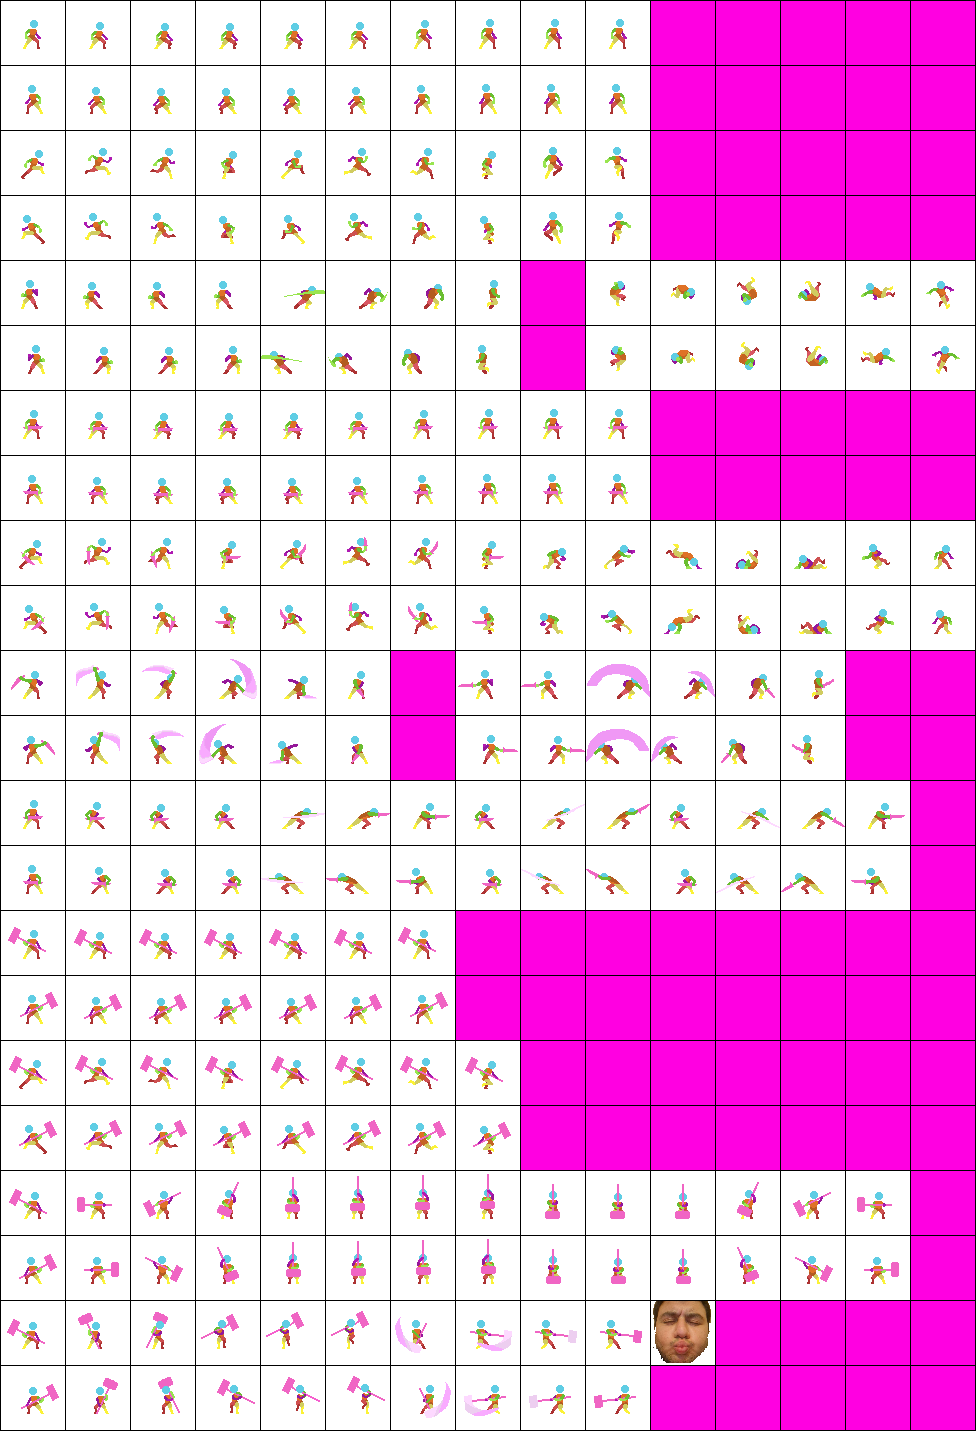
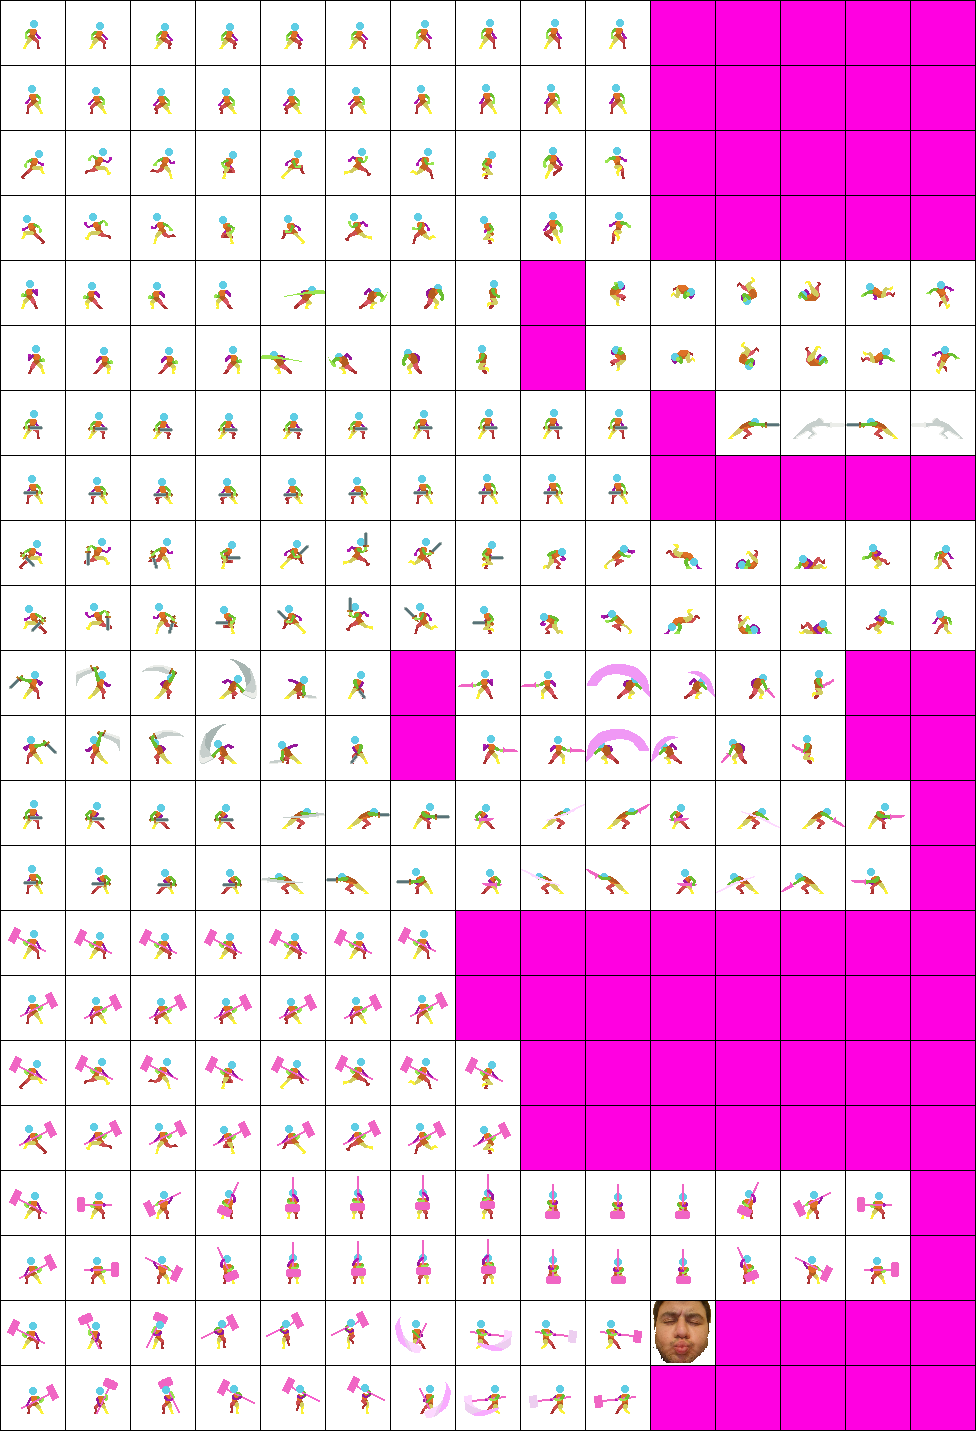
Added a new skill for the sword, new textures and a new trail effect

diff --git a/GameProject2023/src/player_weapons/SwordWeapon.java b/GameProject2023/src/player_weapons/SwordWeapon.java
@@ -1,6 +1,7 @@
 package player_weapons;
 
 import java.awt.Rectangle;
+import java.awt.image.BufferedImage;
 import java.util.ArrayList;
 
 import abstract_templates.Creature;
@@ -11,6 +12,7 @@ import framework.TextureLoader;
 import framework.TextureLoader.TextureName;
 import items.SwordItem;
 import items.WeaponItem;
+import visual_effects.FadingTrailEffect;
 import window.Animation;
 import window.KeyInput;
 import window.MouseInput;
@@ -21,13 +23,18 @@ public class SwordWeapon extends Weapon {
 		None,
 		AttackChain1,
 		AttackChain2,
-		Ability1,
+		SwordDash,
 		Ability2,
 	}
 	private SwordState state = SwordState.None;
 	private Animation currentAnimation;
 
 	private WeaponAbility[] abilities;
+	
+	private boolean dashing = false;
+	private float dashSpeedX = 10f;
+	private long dashStartTimer;
+	private int dashLengthMillis = 150;
 
 	public SwordWeapon(ObjectHandler objectHandler, KeyInput keyInput, MouseInput mouseInput) {
 		super(objectHandler, keyInput, mouseInput);
@@ -46,9 +53,9 @@ public class SwordWeapon extends Weapon {
 			
 			if (mouseInput.isAttackButtonPressed() && !abilities[0].isOnCooldown())
 				state = SwordState.AttackChain1;
-			else if (keyInput.isFirstAbilityKeyPressed() && !abilities[0].isOnCooldown())
-				state = SwordState.Ability1;
-			else if (keyInput.isSecondAbilityKeyPressed() && !abilities[0].isOnCooldown())
+			else if (keyInput.isFirstAbilityKeyPressed() && !abilities[2].isOnCooldown())
+				state = SwordState.SwordDash;
+			else if (keyInput.isSecondAbilityKeyPressed() && !abilities[3].isOnCooldown())
 				state = SwordState.Ability2;
 			break;
 		case AttackChain1:
@@ -81,12 +88,34 @@ public class SwordWeapon extends Weapon {
 				checkEnemyCollision(getChainAttackBounds(), abilities[1].getDamage(), 4 * player.getDirection(), -2f, 400);
 			player.setVelX(0);
 			break;
-		case Ability1:
+		case SwordDash:
 			currentAnimation = abilities[2].getAnimations()[getIndexFromDirection()];
-			if (currentAnimation.isPlayedOnce()) {
+			// Dash started
+			if (!dashing) {
+				dashing = true;
+				dashStartTimer = System.currentTimeMillis();
+				player.setLockMovementInputs(true);
+				player.setVelX(dashSpeedX * player.getDirection());
+				abilities[2].startCooldown();
+			}
+			// Dash ended or player got knocked back
+			if (player.isKnockedBack() || System.currentTimeMillis() - dashStartTimer > dashLengthMillis) {
 				state = SwordState.None;
+				dashing = false;
+				player.setLockMovementInputs(false);
 				break;
 			}
+			
+			player.setVelY(0f);
+			checkEnemyCollision(getSwordDashBounds(), abilities[2].getDamage(), 0f, 0f, 700);
+			
+			// Add the dash trail effect
+			int dashTrailImageIndex = player.getDirection() == 1 ? 1 : 3;
+			int playerWidth = player.getWidth();
+			int playerHeight = player.getHeight();
+			BufferedImage dashTrailImage = TextureLoader.getInstance().getTextures(TextureName.PlayerSwordDash)[dashTrailImageIndex]; 
+			objectHandler.addObject(new FadingTrailEffect(player.getX() - playerWidth / 2, player.getY() - playerHeight / 2,
+					playerWidth * 2, playerHeight * 2, dashTrailImage, 0.05f, objectHandler), ObjectHandler.TOP_LAYER);
 			break;
 		case Ability2:
 			currentAnimation = abilities[3].getAnimations()[getIndexFromDirection()];
@@ -126,6 +155,13 @@ public class SwordWeapon extends Weapon {
 		else
 			attackX = (int) x - attackWidth / 2;
 		return new Rectangle(attackX, (int) y, attackWidth, height);
+	}
+	
+	private Rectangle getSwordDashBounds() {
+		int playerWidth = player.getWidth();
+		int playerHeight = player.getHeight();
+		return new Rectangle((int) (player.getX() - playerWidth / 2), (int) (player.getY() - playerHeight / 2),
+				playerWidth * 2, playerHeight * 2);
 	}
 	
 	@Override
@@ -178,12 +214,14 @@ public class SwordWeapon extends Weapon {
 		};
 		abilities[1] = new WeaponAbility(1000, 20, stabAnims);
 		
-		// TODO Ability 1
-		Animation[] tempAnims = new Animation[] {
-				new Animation(tex.getTexturesByDirection(TextureName.PlayerHammerVerticalSlam, 1), stabDelay, true),
-				new Animation(tex.getTexturesByDirection(TextureName.PlayerHammerVerticalSlam, -1), stabDelay, true),
+		// Sword Dash
+		BufferedImage[] dashSprites = tex.getTextures(TextureName.PlayerSwordDash);
+		Animation[] dashAnims = new Animation[] {
+				new Animation(5, false, dashSprites[0]),
+				new Animation(5, false, dashSprites[2]),
 		};
-		abilities[2] = new WeaponAbility(2000, 15, tempAnims);
+		abilities[2] = new WeaponAbility(2000, 15, dashAnims);
+		
 		// TODO Ability 2
 		Animation[] tempAnims2 = new Animation[] {
 				new Animation(tex.getTexturesByDirection(TextureName.PlayerHammerSwing, 1), stabDelay, true),

diff --git a/GameProject2023/src/game_objects/ArrowProjectile.java b/GameProject2023/src/game_objects/ArrowProjectile.java
@@ -3,6 +3,7 @@ package game_objects;
 import static framework.GameConstants.ScaleConstants.PLAYER_HEIGHT;
 import static framework.GameConstants.ScaleConstants.PLAYER_WIDTH;
 
+import java.awt.AlphaComposite;
 import java.awt.Graphics;
 import java.awt.Graphics2D;
 import java.util.ArrayList;
@@ -19,6 +20,8 @@ import window.Animation;
 public class ArrowProjectile extends Projectile {
 
 	private boolean stopUpdating = false;
+	private float alpha = 1;
+	private float fadingRate = 0.01f;
 	
 	private Animation arrowAnimation;
 	
@@ -40,7 +43,10 @@ public class ArrowProjectile extends Projectile {
 		// of time and then remove it from the game.
 		if (landed) {
 			if (System.currentTimeMillis() - landingTime >= lifetimeAfterLandingMillis) {
-				objectHandler.removeObject(this);
+				if (alpha > fadingRate) 
+					alpha -= fadingRate;
+				else
+					objectHandler.removeObject(this);
 				return;
 			}
 		}
@@ -61,8 +67,8 @@ public class ArrowProjectile extends Projectile {
 		// Player collision
 		Player player = objectHandler.getPlayer();
 		if (getBounds().intersects(player.getBounds()) && !player.isDodging()) {
-			player.takeDamage(damage, player.getDefaultInvulnerabilityDuration());
 			player.applyKnockback(velX / 2, -3f);
+			player.takeDamage(damage, player.getDefaultInvulnerabilityDuration());
 			objectHandler.removeObject(this);
 		}
 		
@@ -89,11 +95,18 @@ public class ArrowProjectile extends Projectile {
 	    float centerX = (float) getBounds().getCenterX();
 	    float centerY = (float) getBounds().getCenterY();
 	    double rotationAngle = Math.atan2(velY, velX);
-
+	    
 	    Graphics2D g2d = (Graphics2D) g;
 	    g2d.rotate(rotationAngle, centerX, centerY);
+	    g2d.setComposite(makeTransparent(alpha));
 	    arrowAnimation.drawAnimation(g2d, (int) x - width / 2, (int) y - height / 2, width * 2, height * 2);
+	    g2d.setComposite(makeTransparent(1));
 	    g2d.rotate(-rotationAngle, centerX, centerY);
+	}
+	
+	private AlphaComposite makeTransparent(float alpha) {
+		int type = AlphaComposite.SRC_OVER;
+		return(AlphaComposite.getInstance(type, alpha));
 	}
 
 }

diff --git a/GameProject2023/src/game_objects/Player.java b/GameProject2023/src/game_objects/Player.java
@@ -41,6 +41,8 @@ public class Player extends Creature {
 	private int availableJumps = 2;
 	private boolean doubleJumping = false;
 	private boolean dodging = false;
+	
+	private boolean lockMovementInputs = false; 
 
 	private final int defaultInvulnerabilityDuration = 700;
 	
@@ -85,7 +87,8 @@ public class Player extends Creature {
 		if (!canInteract && (now - lastInteractTimer >= 1000))
 			canInteract = true;
 
-		handleMovement();
+		if (!lockMovementInputs)
+			handleMovement();
 		weapon.tick();
 		handleObjectInteraction();
 
@@ -172,8 +175,6 @@ public class Player extends Creature {
 
 		// Jump / Double jump
 		// Allows the player to do multiple jumps without touching the ground.
-		// Available jump count is reset when the player hits the ground.
-		// This is handled during the block collision check.
 		if (keyInput.isJumpKeyPressed()) {
 			// If the player is grounded and did not perform a jump yet
 			if (!falling && !jumping && availableJumps == 2) {
@@ -230,7 +231,7 @@ public class Player extends Creature {
 
 	@Override
 	public void applyKnockback(float velX, float velY) {
-		if ((knockedBack && invulnerable) || dodging)
+		if (invulnerable || dodging)
 			return;
 
 		knockedBack = true;
@@ -413,4 +414,8 @@ public class Player extends Creature {
 		return defaultInvulnerabilityDuration;
 	}
 
+	public void setLockMovementInputs(boolean lockMovementInputs) {
+		this.lockMovementInputs = lockMovementInputs;
+	}
+	
 }

diff --git a/GameProject2023/src/visual_effects/FadingTrailEffect.java b/GameProject2023/src/visual_effects/FadingTrailEffect.java
@@ -1,0 +1,49 @@
+package visual_effects;
+
+import java.awt.AlphaComposite;
+import java.awt.Graphics;
+import java.awt.Graphics2D;
+import java.awt.image.BufferedImage;
+
+import abstract_templates.GameObject;
+import framework.ObjectHandler;
+import framework.ObjectId;
+import framework.ObjectId.Category;
+import framework.ObjectId.Name;
+
+public class FadingTrailEffect extends GameObject {
+
+	private float alpha = 1;
+	private float fadingRate;
+	private BufferedImage image;
+	
+	private ObjectHandler objectHandler;
+	
+	public FadingTrailEffect(float x, float y, int width, int height, BufferedImage image, float fadingRate, ObjectHandler objectHandler) {
+		super(x, y, width, height, new ObjectId(Category.Missing, Name.Missing));
+		this.image = image;
+		this.fadingRate = fadingRate;
+		this.objectHandler = objectHandler;
+	}
+
+	@Override
+	public void tick() {
+		if (alpha > fadingRate) 
+			alpha -= fadingRate;
+		else
+			objectHandler.removeObject(this);
+	}
+
+	public void render(Graphics g) {
+		Graphics2D g2d = (Graphics2D) g;
+		g2d.setComposite(makeTransparent(alpha));
+		g2d.drawImage(image, (int) x, (int) y, width, height, null);
+		g2d.setComposite(makeTransparent(1));
+	}
+	
+	private AlphaComposite makeTransparent(float alpha) {
+		int type = AlphaComposite.SRC_OVER;
+		return(AlphaComposite.getInstance(type, alpha));
+	}
+	
+}

diff --git a/GameProject2023/src/framework/TextureLoader.java b/GameProject2023/src/framework/TextureLoader.java
@@ -26,6 +26,7 @@ public class TextureLoader {
 		PlayerSwordStab,
 		PlayerSwordThrow,
 		PlayerSwordSwing,
+		PlayerSwordDash,
 		
 		PlayerHammerIdle,
 		PlayerHammerRun,
@@ -183,6 +184,11 @@ public class TextureLoader {
 				textures[i] = playerSheet.getSubimage(456 + i * 65, 651, 64, 64);
 				textures[i + 6] = playerSheet.getSubimage(456 + i * 65, 716, 64, 64);
 			}
+			break;
+		case PlayerSwordDash:
+			textures = new BufferedImage[4];
+			for (int i = 0; i < textures.length; i++) 
+				textures[i] = playerSheet.getSubimage(716 + i * 65, 391, 64, 64);
 			break;
 		case PlayerHammerIdle:
 			textures = new BufferedImage[14];

diff --git a/GameProject2023/src/visual_effects/OneTimeAnimationEffect.java b/GameProject2023/src/visual_effects/OneTimeAnimationEffect.java
@@ -9,12 +9,12 @@ import framework.ObjectId.Category;
 import framework.ObjectId.Name;
 import window.Animation;
 
-public abstract class VisualEffect extends GameObject {
+public abstract class OneTimeAnimationEffect extends GameObject {
 
 	private ObjectHandler objectHandler;
 	private Animation animation;
 	
-	public VisualEffect(float x, float y, int width, int height, ObjectHandler objectHandler) {
+	public OneTimeAnimationEffect(float x, float y, int width, int height, ObjectHandler objectHandler) {
 		super(x, y, width, height, new ObjectId(Category.Missing, Name.Missing));
 		this.objectHandler = objectHandler;
 	}

diff --git a/GameProject2023/src/visual_effects/SparkleEffect.java b/GameProject2023/src/visual_effects/SparkleEffect.java
@@ -6,7 +6,7 @@ import framework.TextureLoader;
 import framework.TextureLoader.TextureName;
 import window.Animation;
 
-public class SparkleEffect extends VisualEffect {
+public class SparkleEffect extends OneTimeAnimationEffect {
 
 	public SparkleEffect(float x, float y, ObjectHandler objectHandler) {
 		super(x, y, GameConstants.ScaleConstants.TILE_SIZE, GameConstants.ScaleConstants.TILE_SIZE, objectHandler);

diff --git a/GameProject2023/src/game_objects/BullEnemy.java b/GameProject2023/src/game_objects/BullEnemy.java
@@ -78,8 +78,8 @@ public class BullEnemy extends Creature {
 
 	private void handleAttacking() {
 		if (getBounds().intersects(player.getBounds())) {
-			player.takeDamage(25, player.getDefaultInvulnerabilityDuration());
 			player.applyKnockback(direction * runningSpeed / 2, -7f);
+			player.takeDamage(25, player.getDefaultInvulnerabilityDuration());
 		}
 	}
 	

diff --git a/GameProject2023/src/game_objects/BasicEnemy.java b/GameProject2023/src/game_objects/BasicEnemy.java
@@ -92,8 +92,8 @@ public class BasicEnemy extends Creature {
 			
 			// Damage the player
 			if (attacking) {
-				player.takeDamage(damage, player.getDefaultInvulnerabilityDuration());
 				player.applyKnockback(4 * direction, -5);
+				player.takeDamage(damage, player.getDefaultInvulnerabilityDuration());
 			}
 		}
 	}
